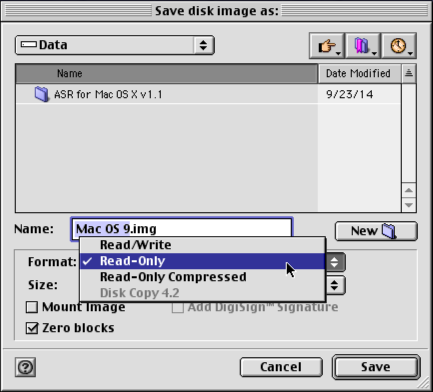
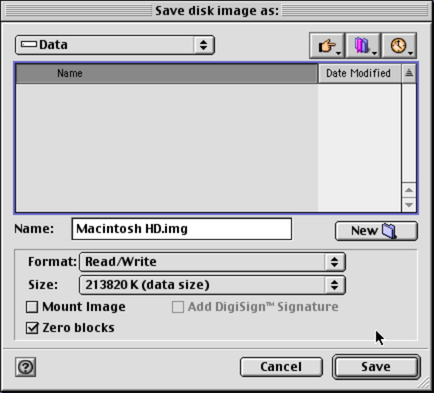
a

Changed region(s): [[0.0, 0.0, 1.0, 1.0]]

diff --git a/docs/_posts/2023-01-11-system-imaging-with-asr.md b/docs/_posts/2023-01-11-system-imaging-with-asr.md
@@ -44,17 +44,19 @@ Once in single-user mode, run fsck by entering `/sbin/fsck -fy` and mount the ro
 
 This is all that is necessary to prepare Mac OS X for imaging. I go a bit further and delete caches, preferences, the swap file, and anything else that indicates the installation has been used before. As this is tedious, I will document it later.
 
-Now, reboot to your Imaging partition with Mac OS 9. Run Disk First Aid on your Mac OS X partition. Then open Disk Copy 6.5b13 and select Create Image From Folder and select your Mac OS X partition.
+Now, reboot to your Imaging partition with Mac OS 9. Run Disk First Aid on your Mac OS X partition. Then open Disk Copy 6.5b13 and select Image -\> Create Image From Folder and select your Mac OS X partition.
 
 ![][image-4]
 
 _Create Image From Folder_
 
-Disk Copy will take a bit to calculate the size of the image. In the next dialog, select Read-Only as the disk image format and save it to the other hard drive in your system (I call mine Big Disk as it is 137 GB). While you can go ahead and select Read-Only Compressed, it takes a very long time to compress the image.
+Disk Copy will take a bit to calculate the size of the image. In the next dialog, select Read/Write as the disk image format and save it to the other hard drive in your system (I call mine Big Disk as it is 137 GB). While you can skip ahead and select Read-Only Compressed, it takes a very long time to compress the image and images over 1 GB will usually error out
 
 ![][image-5]
 
 _Save Disk Image As:_
+
+After Disk Copy finishes creating the image, select Image -\> Convert Image
 
 [image-1]:	/assets/images/system-imaging-with-asr/restore-bundle.png
 [image-2]:	/assets/images/system-imaging-with-asr/asr-1.3-folder.png
